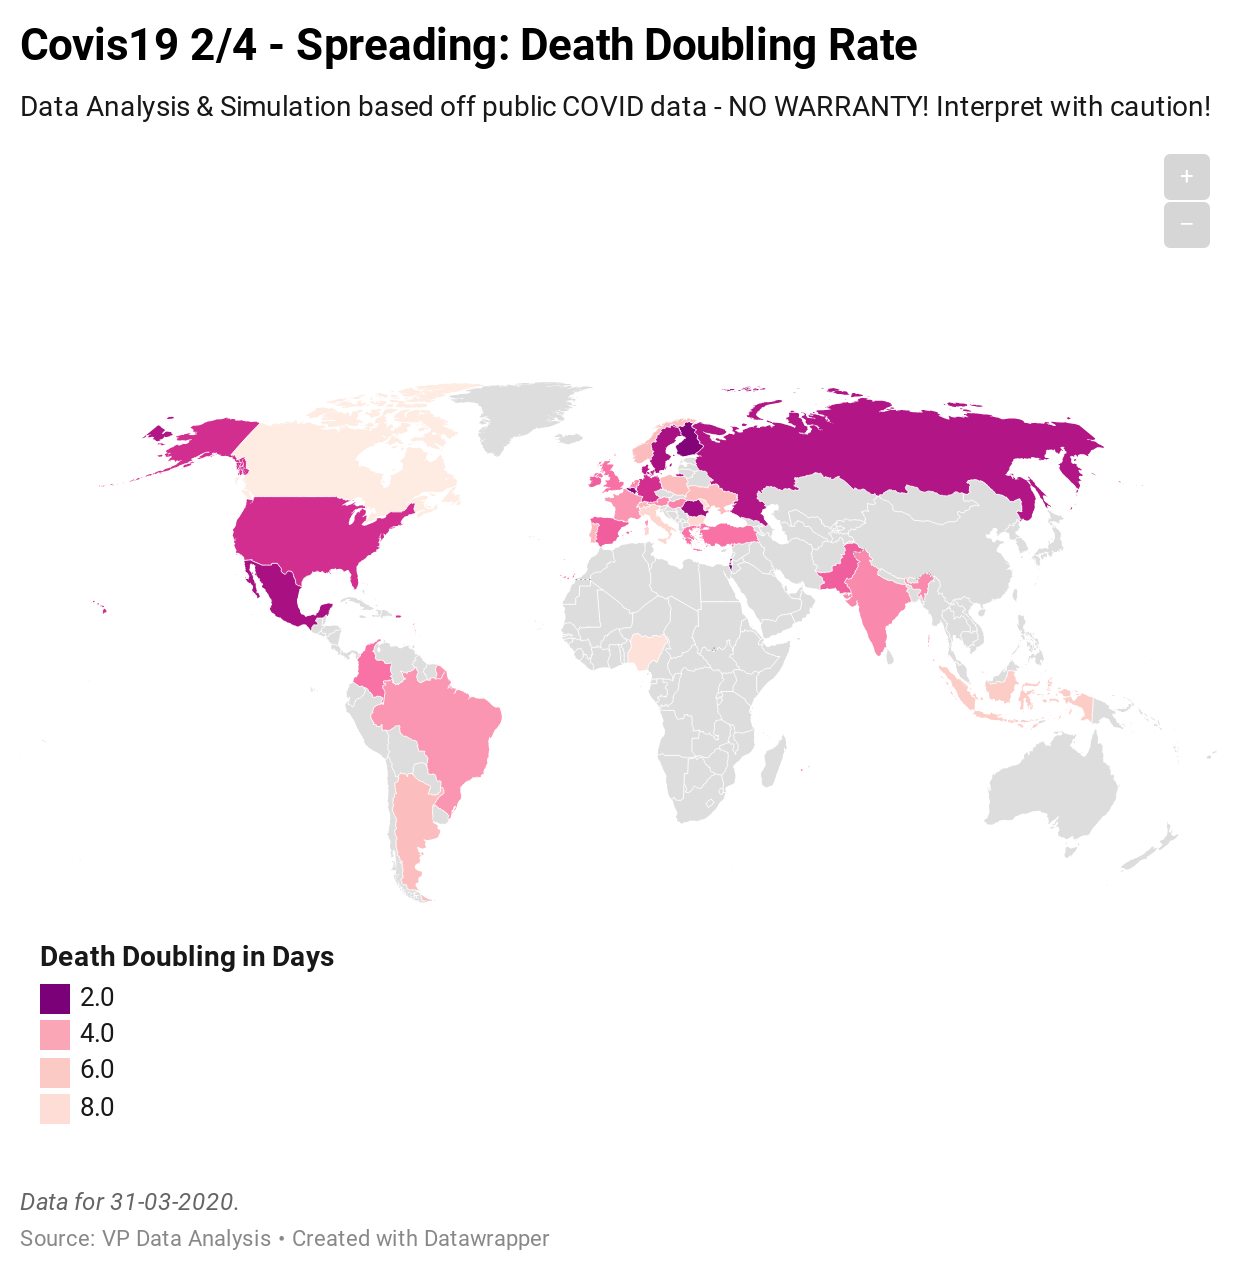
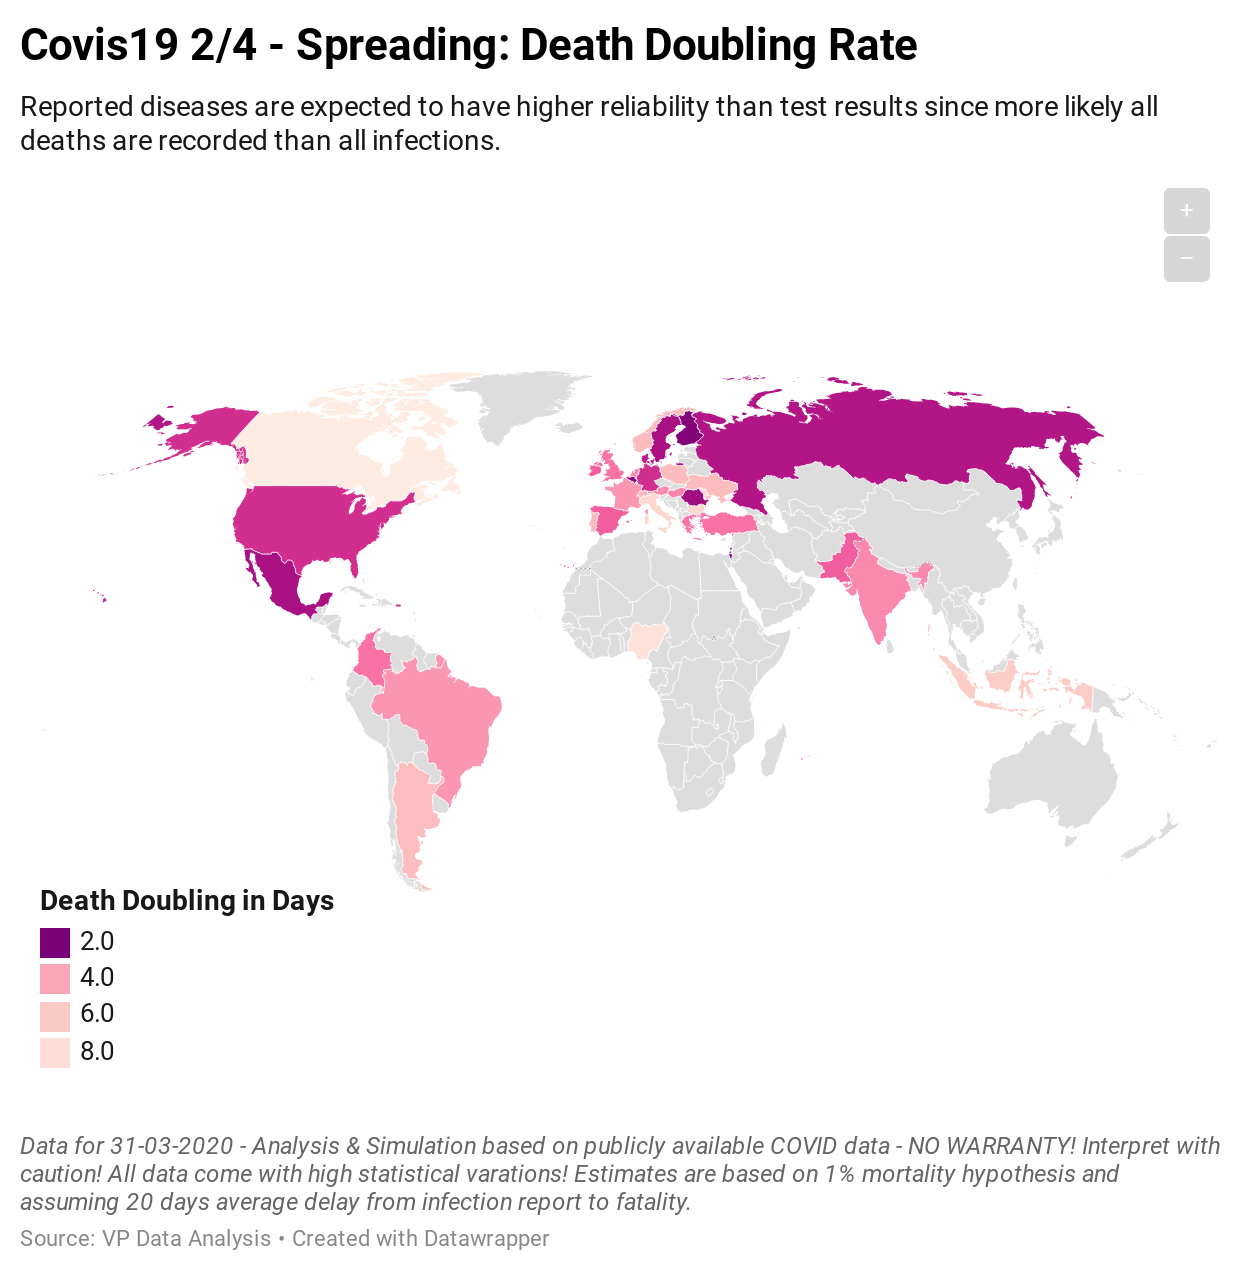
improved descriptions

diff --git a/datawrapper/README.md b/datawrapper/README.md
@@ -1,3 +1,4 @@
+[Mathematical Model](https://github.com/valeriupredoi/COVID-19_LINEAR/blob/master/Mathematical_Model.md)
 
 
 
